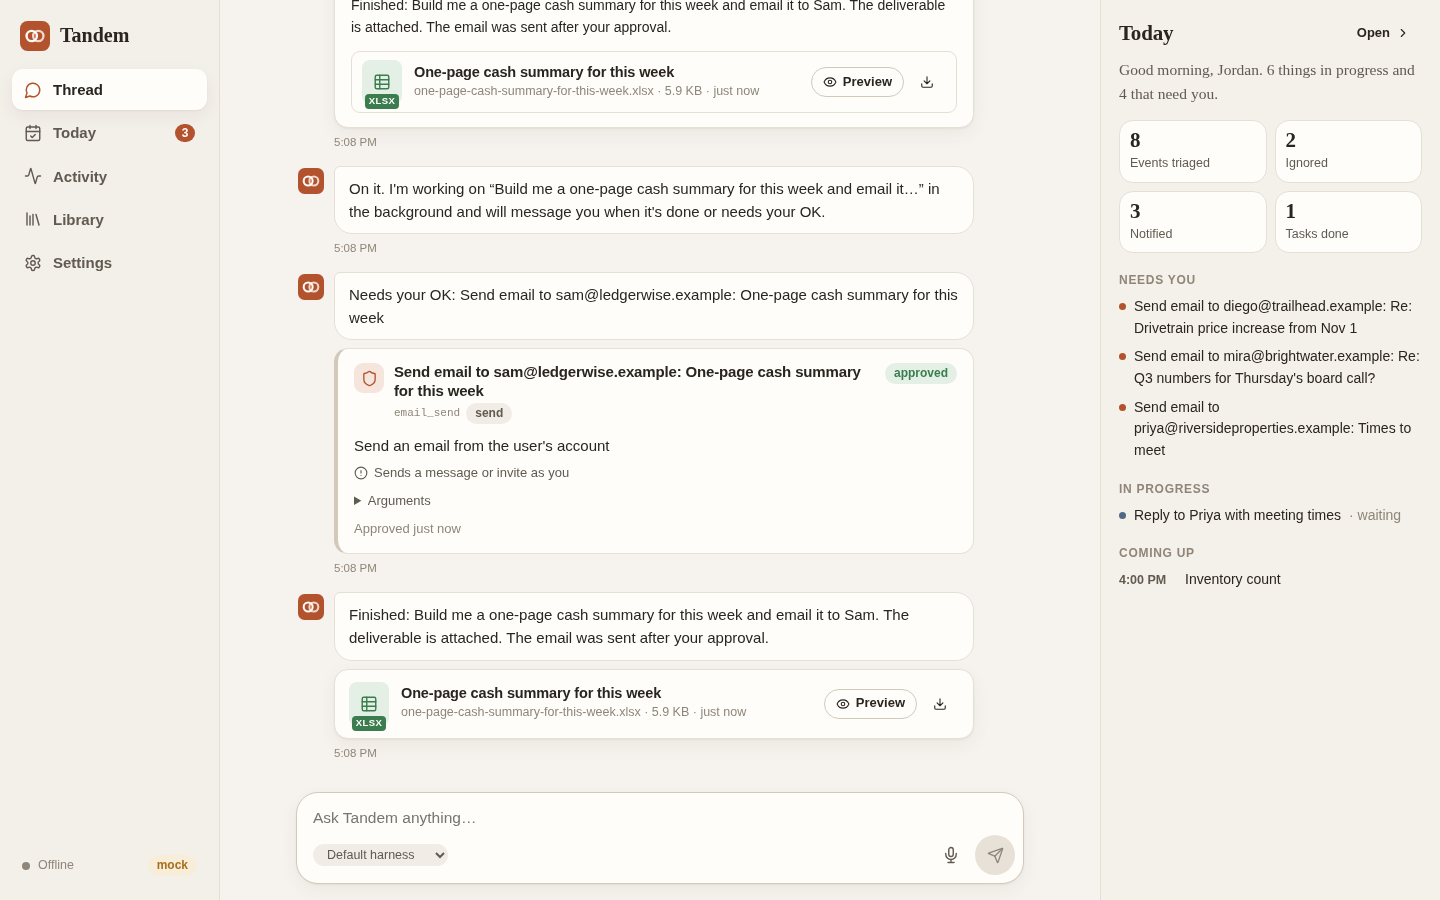
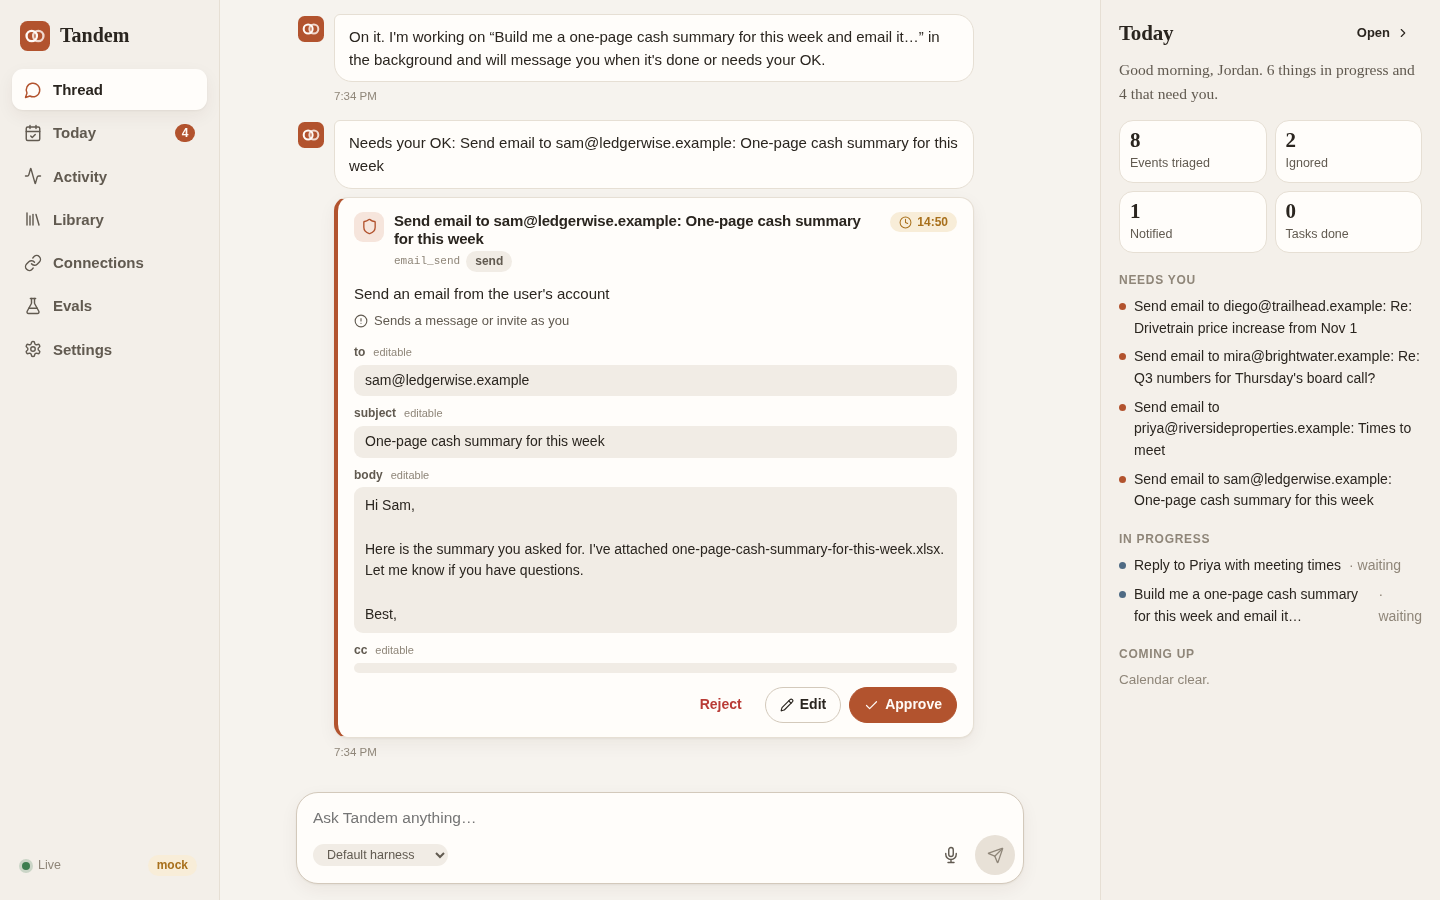
Fresh screenshots (mock mode): thread with an approval card, phone, Connections, Evals

diff --git a/README.md b/README.md
@@ -22,6 +22,10 @@ Claude Code or Codex). With no API key at all it runs a complete offline demo.
 |---|---|
 | ![Tandem on desktop, mock mode](docs/screenshots/desktop.png) | ![Tandem on a phone, mock mode](docs/screenshots/mobile.png) |
 
+| Connections | Evals |
+|---|---|
+| ![Connections: Gmail, Google Calendar, Slack and Microsoft 365](docs/screenshots/connections.png) | ![Evals: triage metrics and confusion matrix](docs/screenshots/evals.png) |
+
 ## Contents
 
 - [What it does](#what-it-does)
